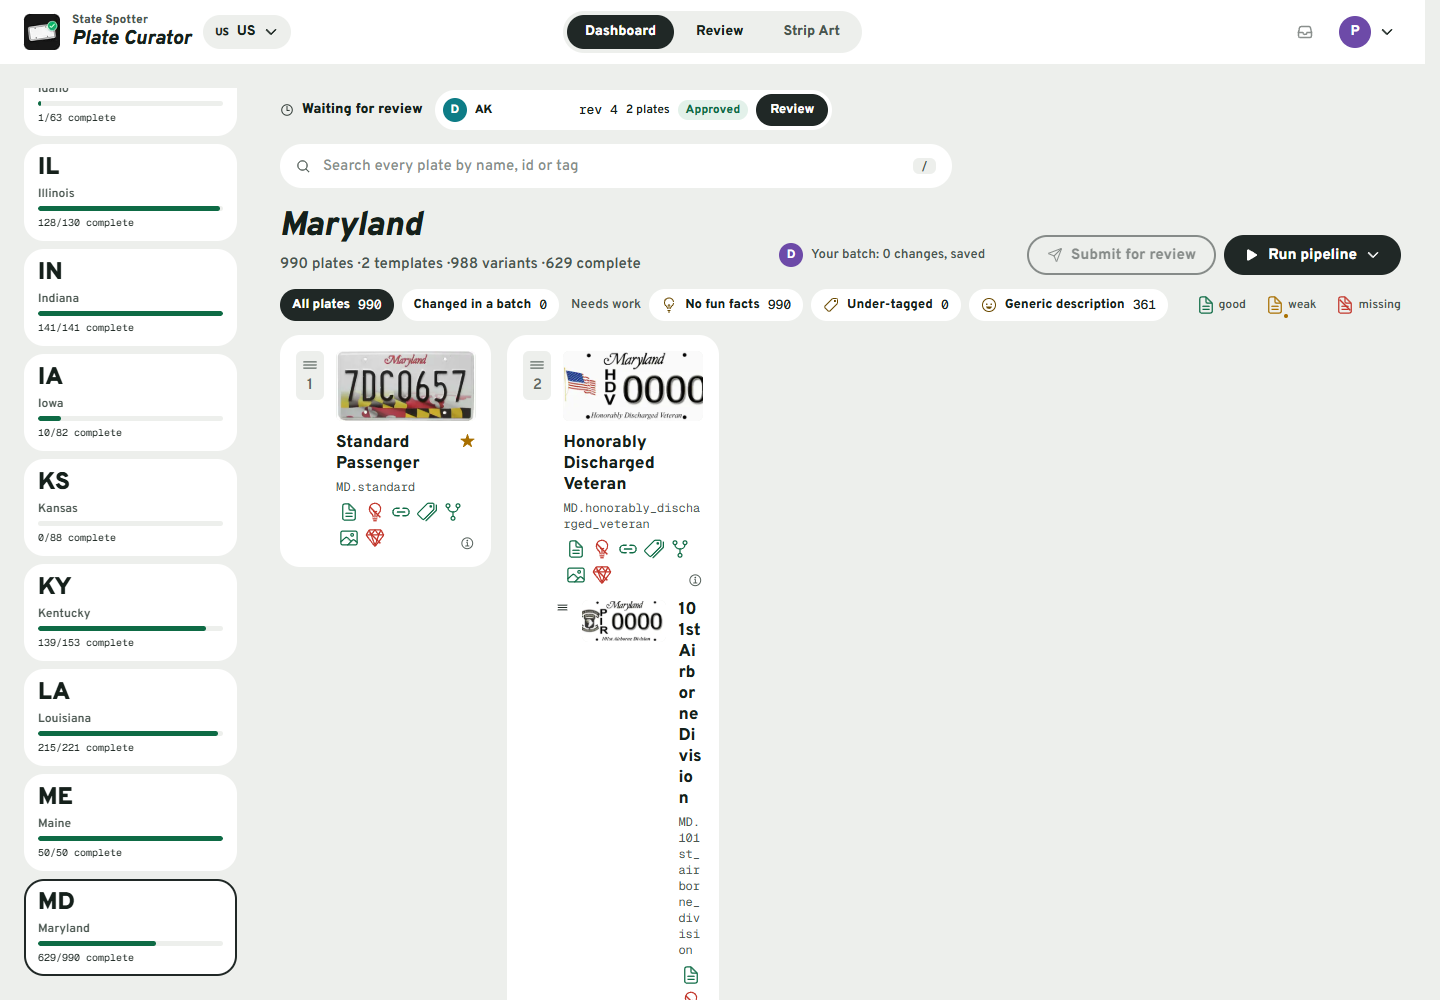
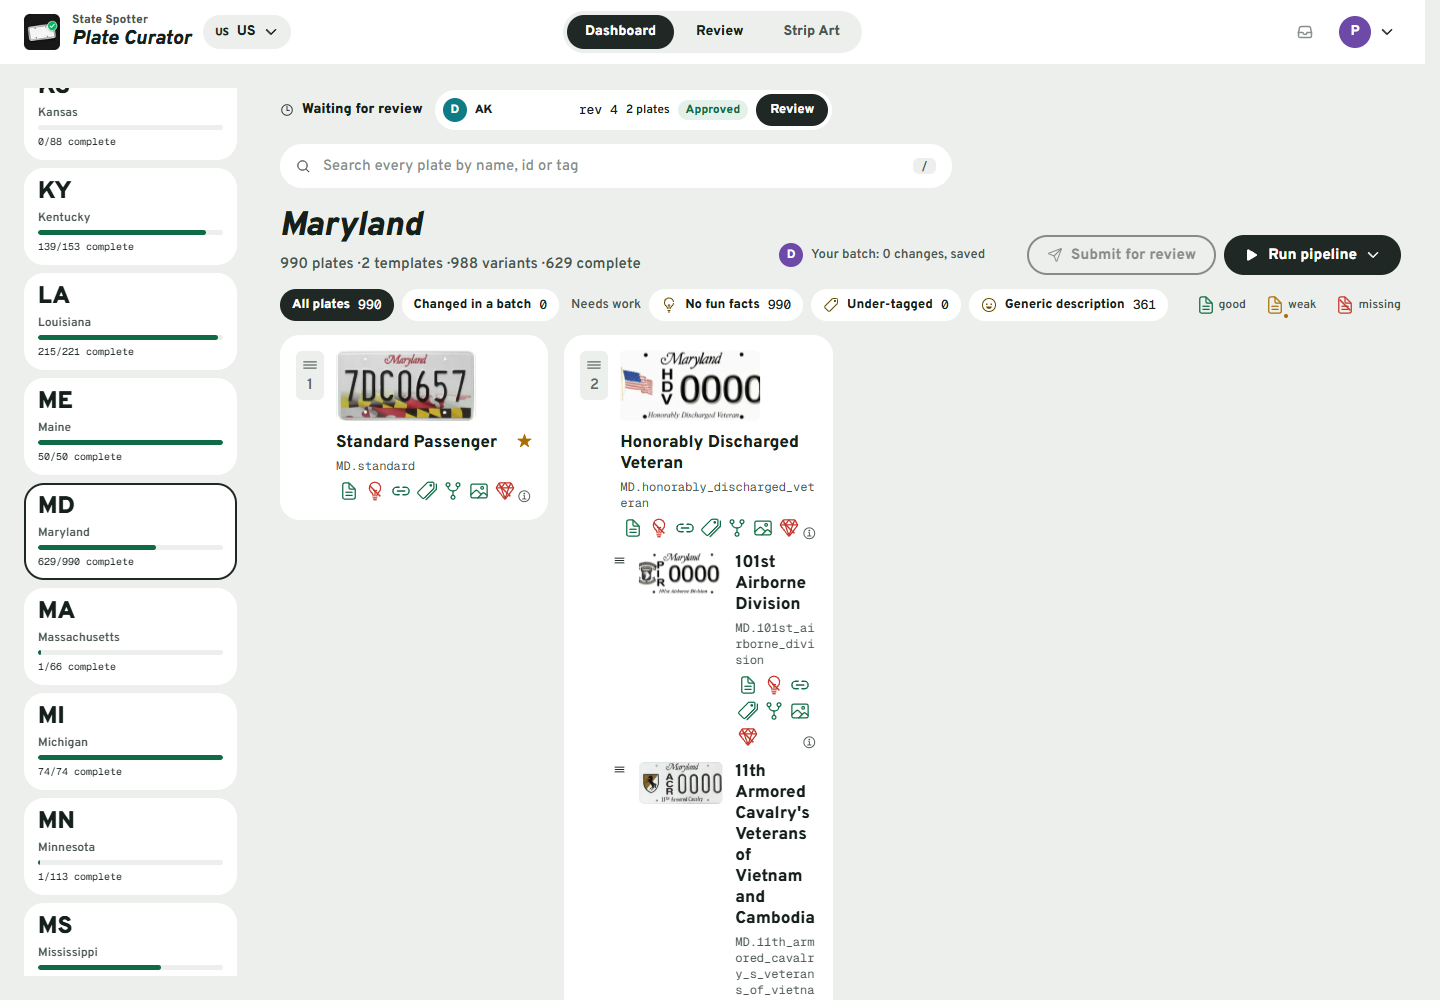
fix(ui): size family columns from the grid container

Changed region(s): [[0.2188, 0.341, 0.5625, 1.0], [0.0, 0.093, 0.1562, 0.992]]

diff --git a/components/dashboard/family-grid.tsx b/components/dashboard/family-grid.tsx
@@ -100,14 +100,15 @@ export function FamilyGrid({ plates }: { plates: FamilyPlate[] }) {
     .map((family, index) => ({ ...family, number: index + 1 }))
     .filter((family) => [family.template, ...family.variants].some(matches))
   useLayoutEffect(() => {
-    const resize = () =>
+    const resize = () => {
+      const bounds = container.current?.getBoundingClientRect()
+      if (!bounds) return
       setLayout({
-        columns: familyColumns(window.innerWidth),
+        columns: familyColumns(bounds.width),
         ready: true,
-        margin:
-          (container.current?.getBoundingClientRect().top ?? 0) +
-          window.scrollY,
+        margin: bounds.top + window.scrollY,
       })
+    }
     resize()
     const observer = new ResizeObserver(resize)
     if (container.current) observer.observe(container.current)

diff --git a/tests/grid-feel.test.ts b/tests/grid-feel.test.ts
@@ -1,7 +1,7 @@
 import { expect, test } from 'vitest'
 import { DROP_DURATION, SPRING_SAMPLES, entranceDelay, familyColumns, hoverPosition } from '../components/dashboard/grid-feel'
 
-test.each([[639, 1], [899, 2], [1149, 3], [1399, 4], [1440, 5], [640, 2], [900, 3], [1150, 4], [1400, 5]])('columns at %i pixels', (width, columns) => {
+test.each([[559, 1], [560, 2], [819, 2], [820, 3], [1059, 3], [1060, 4], [1399, 4], [1400, 5], [1440, 5]])('columns at %i pixels of container width', (width, columns) => {
   expect(familyColumns(width)).toBe(columns)
 })
 

diff --git a/components/dashboard/grid-feel.ts b/components/dashboard/grid-feel.ts
@@ -1,5 +1,5 @@
 export function familyColumns(width: number) {
-  return width < 640 ? 1 : width < 900 ? 2 : width < 1150 ? 3 : width < 1400 ? 4 : 5
+  return width < 560 ? 1 : width < 820 ? 2 : width < 1060 ? 3 : width < 1400 ? 4 : 5
 }
 
 export function entranceDelay(row: number, column: number) {
